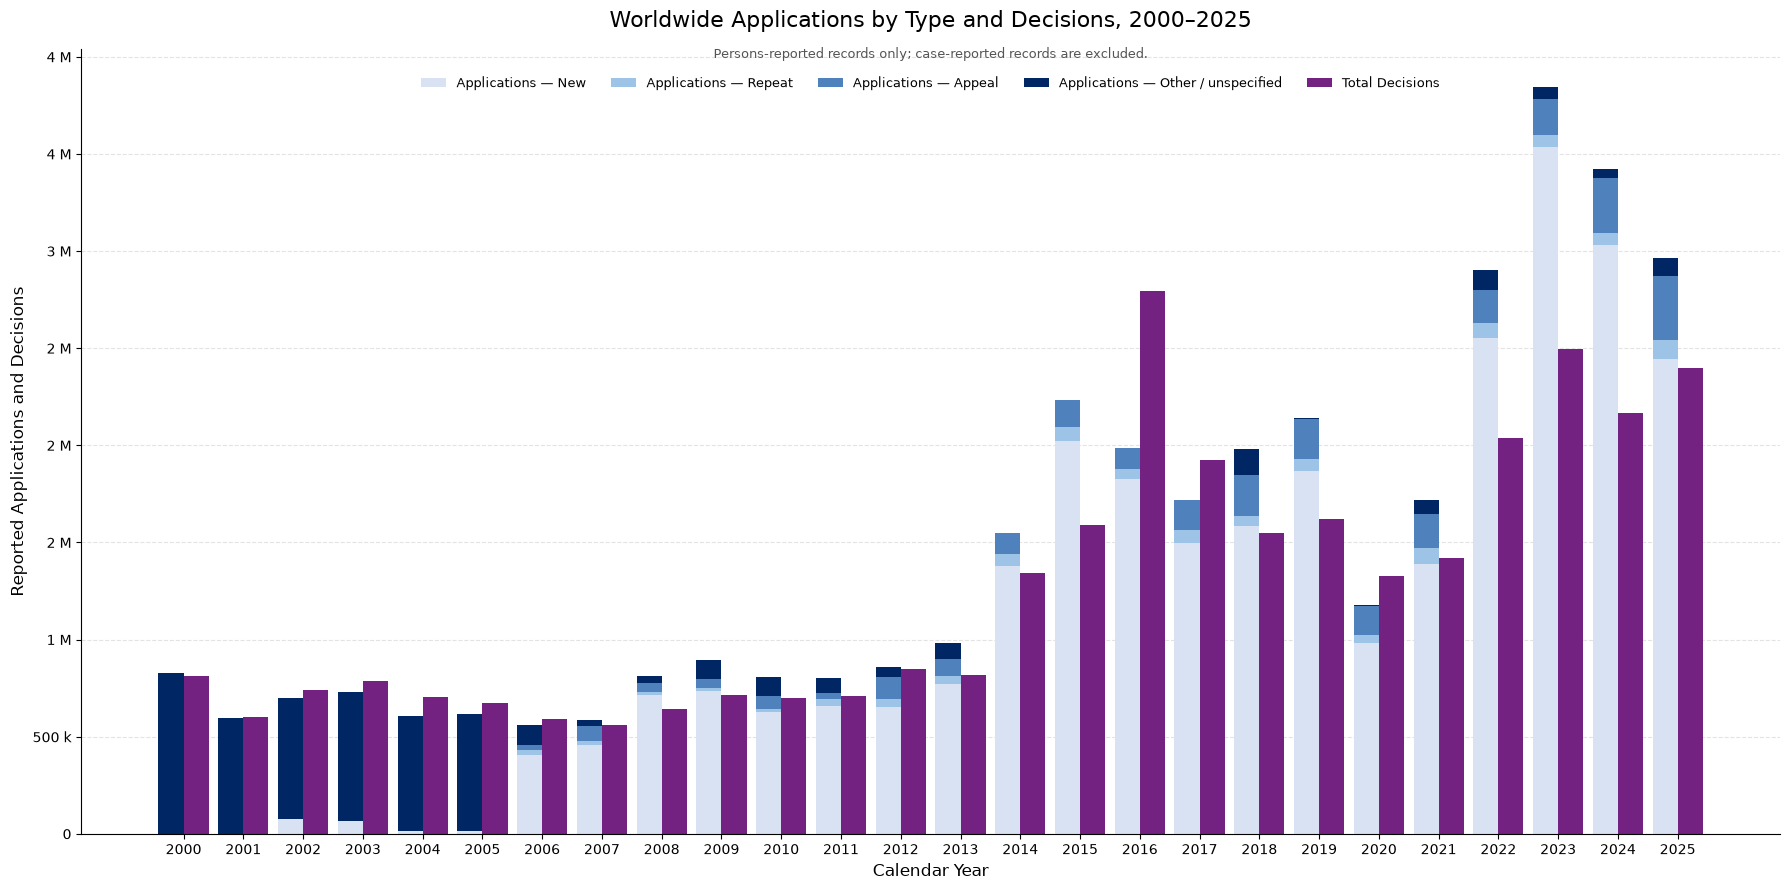
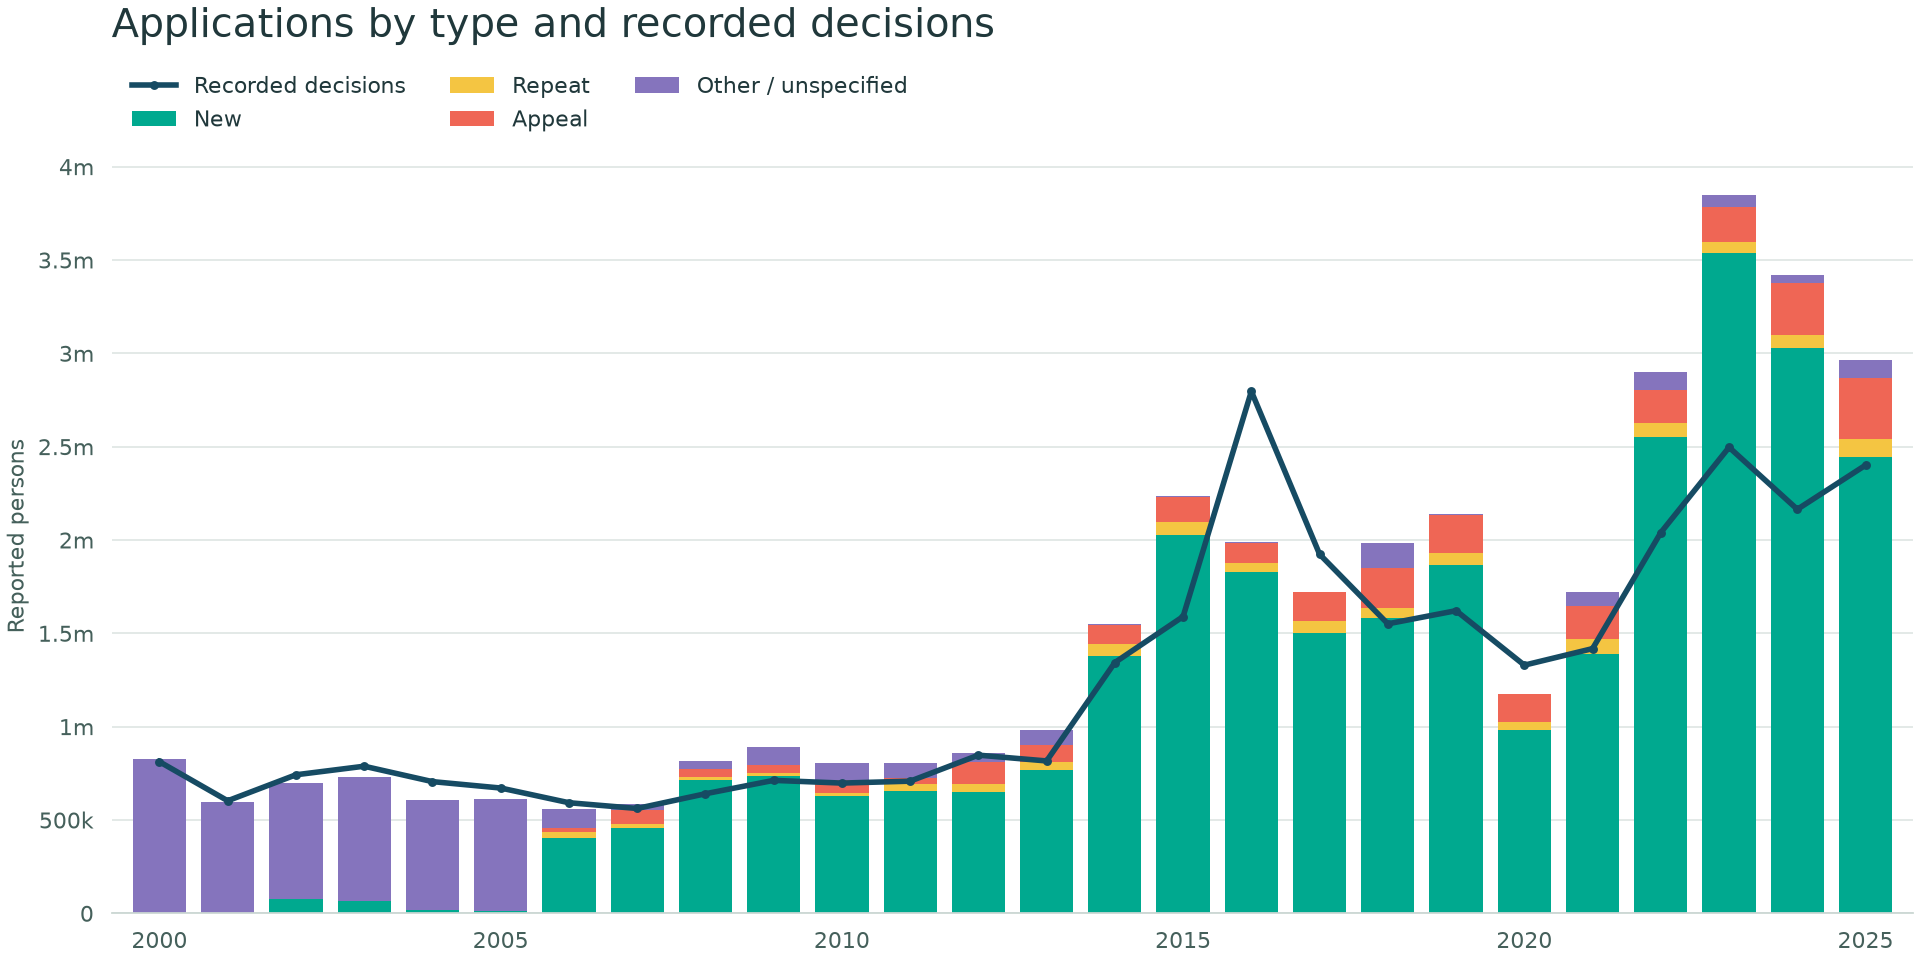
Clarify top-20 galleries and style country and worldwide charts

diff --git a/quarto-preview/theme.scss b/quarto-preview/theme.scss
@@ -62,3 +62,8 @@ body:has(.explorer-status) .reading-note { margin-block:1rem; font-size:.8rem; }
 .origin-selected-profile img { display: block; width: 100%; height: auto; }
 .origin-selected-profile[hidden], .origin-selected-profile img[hidden] { display: none !important; }
 .origin-selected-profile p { font-size: .85rem; margin-bottom: 0; }
+
+.observablehq:has(svg[aria-label]) { background: white; border: 1px solid #d8e2da; border-top: 4px solid #00a98f; border-radius: 5px; padding: 1.3rem .7rem .7rem; margin-block: 1rem 1.7rem; box-shadow: 0 5px 20px #20383b08; }
+.receiving-gallery .origin-card h3 { font-family: Georgia, serif; font-size: 1.5rem; margin-top: .3rem; }
+.origin-card { border-top-color: #00a98f; }
+figure { border-radius: 5px; box-shadow: 0 5px 20px #20383b08; }

diff --git a/quarto-preview/assets/explorer-core.js b/quarto-preview/assets/explorer-core.js
@@ -1,8 +1,8 @@
 export const outcomes = [
-  ["recognised", "Recognised refugee status", "#008a53"],
-  ["other_protection", "Other protection", "#d6a500"],
-  ["rejected", "Rejected", "#b74a43"],
-  ["closed", "Otherwise closed", "#7a7a7a"]
+  ["recognised", "Recognised refugee status", "#00a98f"],
+  ["other_protection", "Other protection", "#f4c542"],
+  ["rejected", "Rejected", "#ef6655"],
+  ["closed", "Otherwise closed", "#8574bd"]
 ];
 
 export function countryYears(data, country, unit) {

diff --git a/scripts/style_publication_charts.py b/scripts/style_publication_charts.py
@@ -1,0 +1,133 @@
+"""Shared publication styling and fixed-edition receiving-country gallery."""
+import hashlib
+import json
+import os
+from pathlib import Path
+
+os.environ.setdefault("MPLBACKEND", "Agg")
+import matplotlib.pyplot as plt
+from matplotlib.ticker import FuncFormatter, PercentFormatter
+import numpy as np
+import pandas as pd
+import pycountry
+
+ROOT = Path(__file__).resolve().parents[1]
+DEST = ROOT / "quarto-preview"
+OUTCOMES = ["Recognized decisions", "Complementary protection", "Rejected decisions", "Otherwise closed"]
+LABELS = ["Refugee status", "Other protection", "Rejected", "Otherwise closed"]
+COLOURS = ["#00a98f", "#f4c542", "#ef6655", "#8574bd"]
+YEARS = np.arange(2000, 2026)
+
+
+def decorate(ax, label):
+    ax.set_facecolor("#ffffff")
+    ax.spines[["top", "right", "left"]].set_visible(False)
+    ax.spines["bottom"].set_color("#cbd7d3")
+    ax.grid(axis="y", color="#dce4e1", linewidth=.7)
+    ax.set_axisbelow(True)
+    ax.tick_params(length=0, labelcolor="#45605b", pad=8)
+    ax.set(xlim=(1999.3, 2025.7), xticks=[2000, 2005, 2010, 2015, 2020, 2025], ylabel=label)
+    ax.yaxis.set_major_formatter(FuncFormatter(lambda v, _: f"{v/1e6:g}m" if abs(v)>=1e6 else f"{v/1000:g}k" if abs(v)>=1000 else f"{v:g}"))
+
+
+def annual(frame, columns):
+    return frame.groupby("Year")[columns].sum(min_count=1).reindex(YEARS)
+
+
+def flows(ax, apps, decs, unit):
+    values = annual(decs, OUTCOMES)
+    bottom = np.zeros(len(YEARS))
+    for key, label, colour in zip(OUTCOMES, LABELS, COLOURS):
+        v = values[key].to_numpy()
+        ax.bar(YEARS, v, bottom=bottom, color=colour, width=.78, label=label)
+        bottom += v
+    a = annual(apps, ["applied"])["applied"]
+    ax.plot(YEARS, a, color="#164b63", linewidth=2.3, marker="o", markersize=3, label="Applications")
+    decorate(ax, f"Reported {unit}")
+    ax.set_ylim(bottom=0)
+
+
+def main():
+    lock = json.loads((DEST / "_inputs.json").read_text(encoding="utf-8"))
+    for filename, digest in lock["inputs"].items():
+        if hashlib.sha256((ROOT / filename).read_bytes()).hexdigest() != digest:
+            raise ValueError(f"Fixed-edition input changed: {filename}")
+    apps = pd.read_csv(ROOT / "asylum-applications.csv")
+    decs = pd.read_csv(ROOT / "asylum-decisions.csv")
+    receiving = DEST / "assets/receiving"
+    receiving.mkdir(parents=True, exist_ok=True)
+    ranking = apps.groupby("Country of asylum (ISO)")["applied"].sum().nlargest(20)
+    parts = ["""## Gallery: Top 20 receiving countries {#top-20-gallery}
+
+The 20 receiving countries with the largest **combined reported application volume, 2000–2025**, in the fixed notebook edition. This selection adds persons- and case-reported values to match the notebook's exploratory ranking; it is **not a ranking of unique applicants or harmonised person counts**. Each profile keeps the two reporting units in separate panels. The dropdown above uses its own dated, refreshed dataset.
+
+**Colours show decision outcomes; the blue line shows applications.** Decisions can concern earlier applications. Gaps indicate unavailable records, not confirmed zeros. Click a chart to enlarge it.
+
+:::: {.origin-gallery .receiving-gallery}
+"""]
+    with plt.rc_context({"font.family":"DejaVu Sans", "font.size":10, "text.color":"#20383b", "axes.labelcolor":"#45605b", "axes.titleweight":"normal"}):
+        for rank, code in enumerate(ranking.index, 1):
+            country = pycountry.countries.get(alpha_3=code)
+            name = country.name if country else code
+            fig, axes = plt.subplots(2, 1, figsize=(12, 8.5), layout="constrained")
+            for ax, unit, label in zip(axes, ["P", "C"], ["persons", "cases"]):
+                a = apps.loc[apps["Country of asylum (ISO)"].eq(code) & apps["Cases / Persons"].eq(unit)]
+                d = decs.loc[decs["Country of asylum (ISO)"].eq(code) & decs["Cases / Persons"].eq(unit)]
+                flows(ax, a, d, label)
+                if a.empty and d.empty:
+                    ax.text(.5, .5, "No records in this reporting unit", transform=ax.transAxes, ha="center", color="#526767")
+            fig.suptitle(f"{name} · {code}\nApplications and decision outcomes | 2000–2025", fontsize=17)
+            axes[0].legend(loc="upper left", ncol=3, frameon=False, fontsize=9)
+            filename = f"assets/receiving/{code.lower()}.png"
+            fig.savefig(DEST / filename, dpi=125, facecolor="white")
+            plt.close(fig)
+            parts.append(f"""::: {{.origin-card}}
+### {rank}. {name}
+
+![{name}: annual applications and decision outcomes in separate persons and cases panels, 2000–2025.]({filename}){{loading="lazy"}}
+
+[Open full-size chart]({filename}) · **{code}**
+:::
+""")
+        parts.append("::::\n")
+        (DEST / "_receiving-gallery.qmd").write_text("\n".join(parts), encoding="utf-8")
+        papps = apps.loc[apps["Cases / Persons"].eq("P")]
+        pdecs = decs.loc[decs["Cases / Persons"].eq("P")]
+        # Preserve the application-type breakdown used by the chapter.
+        papps = papps.copy()
+        papps["Application group"] = papps["Application type"].map({"N": "New", "R": "Repeat", "A": "Appeal"}).fillna("Other / unspecified")
+        types = papps.groupby(["Year", "Application group"])["applied"].sum().unstack().reindex(index=YEARS, columns=["New", "Repeat", "Appeal", "Other / unspecified"])
+        if not np.allclose(types.sum(axis=1), annual(papps, ["applied"])["applied"]):
+            raise ValueError("Application-type stacks must reconcile to all recorded applications.")
+        fig, ax = plt.subplots(figsize=(12, 6), layout="constrained")
+        bottom = np.zeros(len(YEARS))
+        for key, colour in zip(types.columns, COLOURS):
+            v = types[key].fillna(0).to_numpy()
+            ax.bar(YEARS, v, bottom=bottom, color=colour, width=.78, label=str(key))
+            bottom += v
+        ax.plot(YEARS, annual(pdecs, ["Total decisions"])["Total decisions"], color="#164b63", marker="o", markersize=3, linewidth=2.5, label="Recorded decisions")
+        decorate(ax, "Reported persons")
+        ax.set_title("Applications by type and recorded decisions", loc="left", fontsize=18, pad=55)
+        ax.legend(loc="lower left", bbox_to_anchor=(0,1.01), ncol=3, frameon=False)
+        fig.savefig(DEST / "assets/applications-and-decisions.png", dpi=160, facecolor="white")
+        plt.close(fig)
+        values = annual(pdecs, OUTCOMES)
+        totals = annual(pdecs, ["Total decisions"])["Total decisions"]
+        fig, ax = plt.subplots(figsize=(12, 5.5), layout="constrained")
+        bottom = np.zeros(len(YEARS))
+        for key, label, colour in zip(OUTCOMES, LABELS, COLOURS):
+            v = (values[key]/totals).to_numpy()
+            ax.bar(YEARS, v, bottom=bottom, color=colour, width=.88, label=label)
+            bottom += v
+        decorate(ax, "Share of recorded decisions")
+        ax.set_ylim(0,1)
+        ax.yaxis.set_major_formatter(PercentFormatter(1))
+        ax.set_title("How recorded decisions are composed", loc="left", fontsize=18, pad=40)
+        ax.legend(loc="lower left", bbox_to_anchor=(0,1.01), ncol=4, frameon=False)
+        fig.savefig(DEST / "assets/decision-composition.png", dpi=160, facecolor="white")
+        plt.close(fig)
+    print("Styled worldwide figures and prepared 20 receiving-country profiles from pinned inputs.")
+
+
+if __name__ == "__main__":
+    main()

diff --git a/scripts/prepare_additional_origins.py b/scripts/prepare_additional_origins.py
@@ -139,7 +139,9 @@ Choose from **{len(all_profiles)} recorded origins** to see where applications w
 <p><a id="origin-selected-full" target="_blank" rel="noopener">Open full-size chart</a> · <a id="origin-selected-download" download>Download chart (PNG)</a></p>
 </section>
 
-## Featured gallery
+## Gallery: Top 20 reported origins
+
+The **20 origins with the largest combined reported application volume, 2000-2025**, in the notebook edition. This includes **Unknown origin**. The ranking combines persons- and case-reported values: it describes application events in mixed reporting units, not unique applicants or harmonised person counts.
 '''
     page = DEST / "origins.qmd"
     text = page.read_text(encoding="utf-8")

diff --git a/README.md b/README.md
@@ -225,6 +225,7 @@ From the repository root:
     python scripts/prepare_quarto_preview.py
     python scripts/prepare_origin_gallery.py
     python scripts/prepare_additional_origins.py
+    python scripts/style_publication_charts.py
     python scripts/refresh_explorer_data.py --refresh
     quarto preview quarto-preview
 
@@ -252,6 +253,7 @@ mixed-unit reporting conventions, explained on the page.
 
     python scripts/prepare_origin_gallery.py
     python scripts/prepare_additional_origins.py
+    python scripts/style_publication_charts.py
     quarto render quarto-preview
 
 Scheduled publication regenerates the gallery from the pinned notebook outputs;

diff --git a/quarto-preview/README.md b/quarto-preview/README.md
@@ -30,6 +30,7 @@ To populate the dropdown for additional origins, run:
 
     python scripts/prepare_origin_gallery.py
     python scripts/prepare_additional_origins.py
+    python scripts/style_publication_charts.py
 
 The first additional-profile build renders 195 images and can take a few minutes.
 Subsequent builds reuse validated cached images. The dropdown covers all 215
